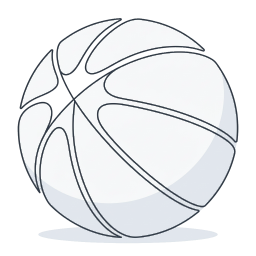
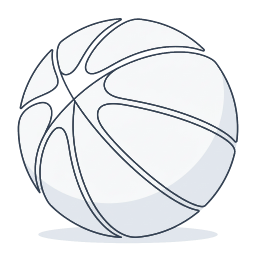
持ち物イラスト5種および見出しアイコン2種の主線をスレートグレー（#334155）に完全統一

diff --git a/index.html b/index.html
@@ -256,7 +256,7 @@
                     <div class="timeline-container fade-in-up">
                         <h3 class="details-title">
                             <span class="details-title-left">
-                                <img src="heading-clock.webp?v=1.2" alt="時計" class="details-title-icon" width="28" height="28" loading="lazy">
+                                <img src="heading-clock.webp?v=2.0" alt="時計" class="details-title-icon" width="28" height="28" loading="lazy">
                                 タイムスケジュール
                             </span>
                         </h3>
@@ -303,41 +303,41 @@
                     <div class="belongings-container fade-in-up delay-1">
                         <h3 class="details-title">
                             <span class="details-title-left">
-                                <img src="heading-bag.webp?v=1.2" alt="持ち物" class="details-title-icon" width="28" height="28" loading="lazy">
+                                <img src="heading-bag.webp?v=2.0" alt="持ち物" class="details-title-icon" width="28" height="28" loading="lazy">
                                 持ち物について
                             </span>
                         </h3>
                         <div class="belongings-grid">
                             <div class="belonging-card">
-                                <div class="b-icon"><img src="belonging-shoes.webp" alt="シューズイラスト" width="64" height="64" loading="lazy"></div>
+                                <div class="b-icon"><img src="belonging-shoes.webp?v=2.0" alt="シューズイラスト" width="64" height="64" loading="lazy"></div>
                                 <div class="b-info">
                                     <h4>シューズ</h4>
                                     <p>バスケットボールシューズ、または体育館用シューズを持参してください。</p>
                                 </div>
                             </div>
                             <div class="belonging-card">
-                                <div class="b-icon"><img src="belonging-wear.webp" alt="着替え・タオルイラスト" width="64" height="64" loading="lazy"></div>
+                                <div class="b-icon"><img src="belonging-wear.webp?v=2.0" alt="着替え・タオルイラスト" width="64" height="64" loading="lazy"></div>
                                 <div class="b-info">
                                     <h4>着替え・タオル</h4>
                                     <p>着替えやタオルを持参することをおすすめします。</p>
                                 </div>
                             </div>
                             <div class="belonging-card">
-                                <div class="b-icon"><img src="belonging-drink.webp" alt="ドリンクイラスト" width="64" height="64" loading="lazy"></div>
+                                <div class="b-icon"><img src="belonging-drink.webp?v=2.0" alt="ドリンクイラスト" width="64" height="64" loading="lazy"></div>
                                 <div class="b-info">
                                     <h4>ドリンク</h4>
                                     <p>体育館内に自動販売機が設置されているところもあります。</p>
                                 </div>
                             </div>
                             <div class="belonging-card">
-                                <div class="b-icon"><img src="belonging-ball.webp" alt="ボールイラスト" width="64" height="64" loading="lazy"></div>
+                                <div class="b-icon"><img src="belonging-ball.webp?v=2.0" alt="ボールイラスト" width="64" height="64" loading="lazy"></div>
                                 <div class="b-info">
                                     <h4>ボール</h4>
                                     <p>マイボールがあればお持ちください。お持ちでない場合はチームのものをお貸しします。</p>
                                 </div>
                             </div>
                             <div class="belonging-card">
-                                <div class="b-icon"><img src="belonging-mask.webp" alt="マスクイラスト" width="64" height="64" loading="lazy"></div>
+                                <div class="b-icon"><img src="belonging-mask.webp?v=2.0" alt="マスクイラスト" width="64" height="64" loading="lazy"></div>
                                 <div class="b-info">
                                     <h4>マスク（任意）</h4>
                                     <p>感染症予防のためのマスク着用は、現在は個人の判断にお任せしております。</p>
